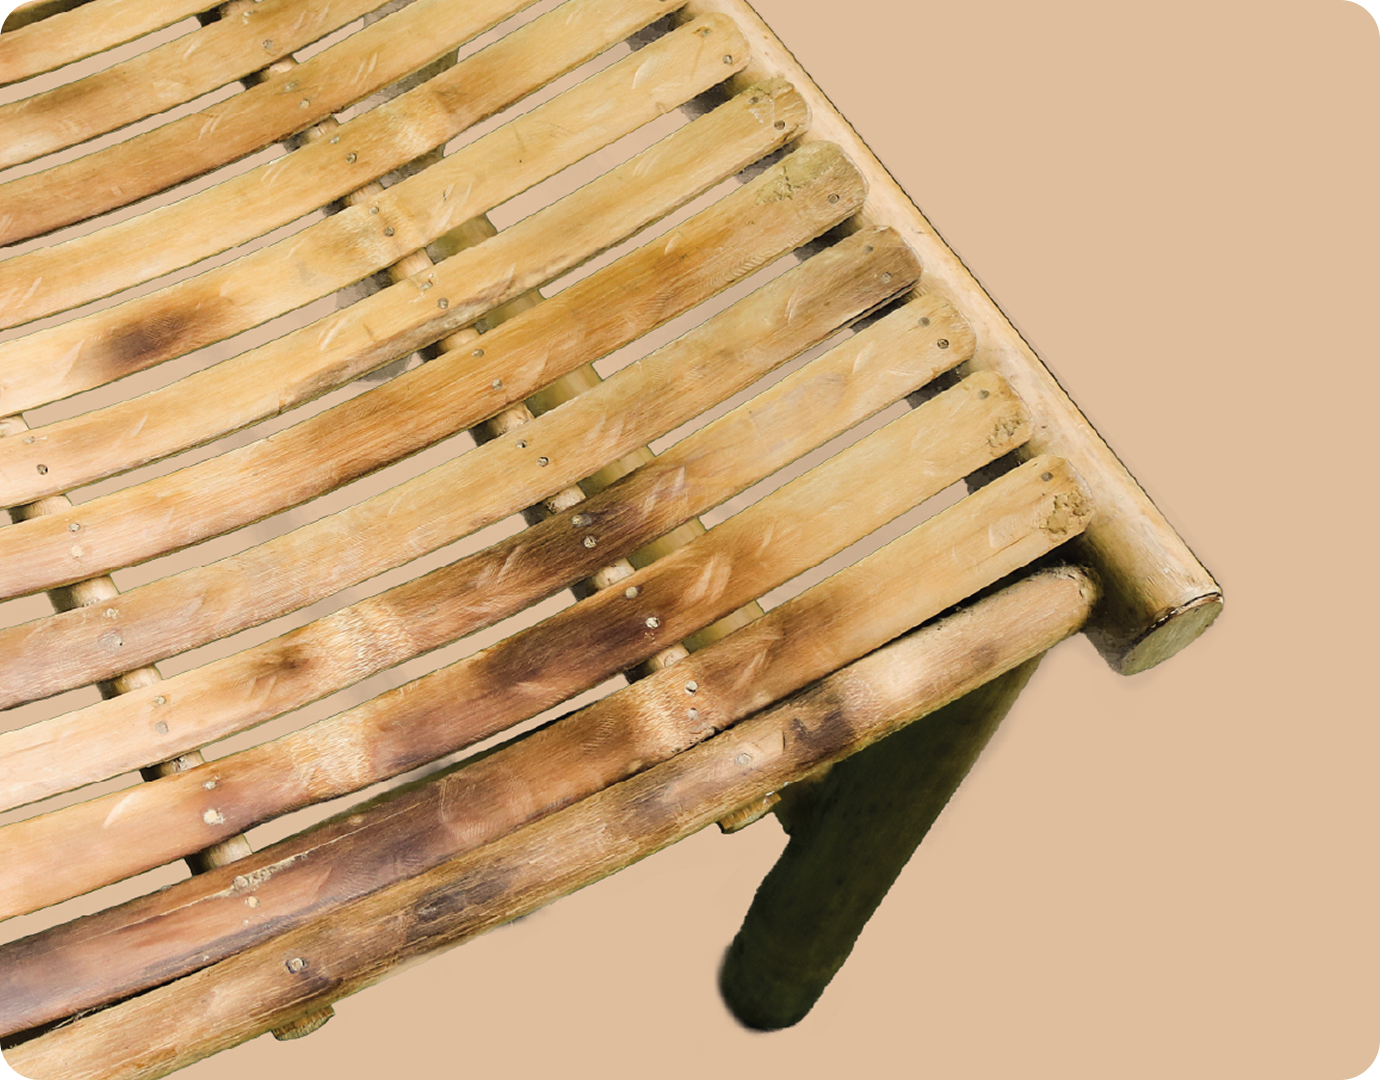
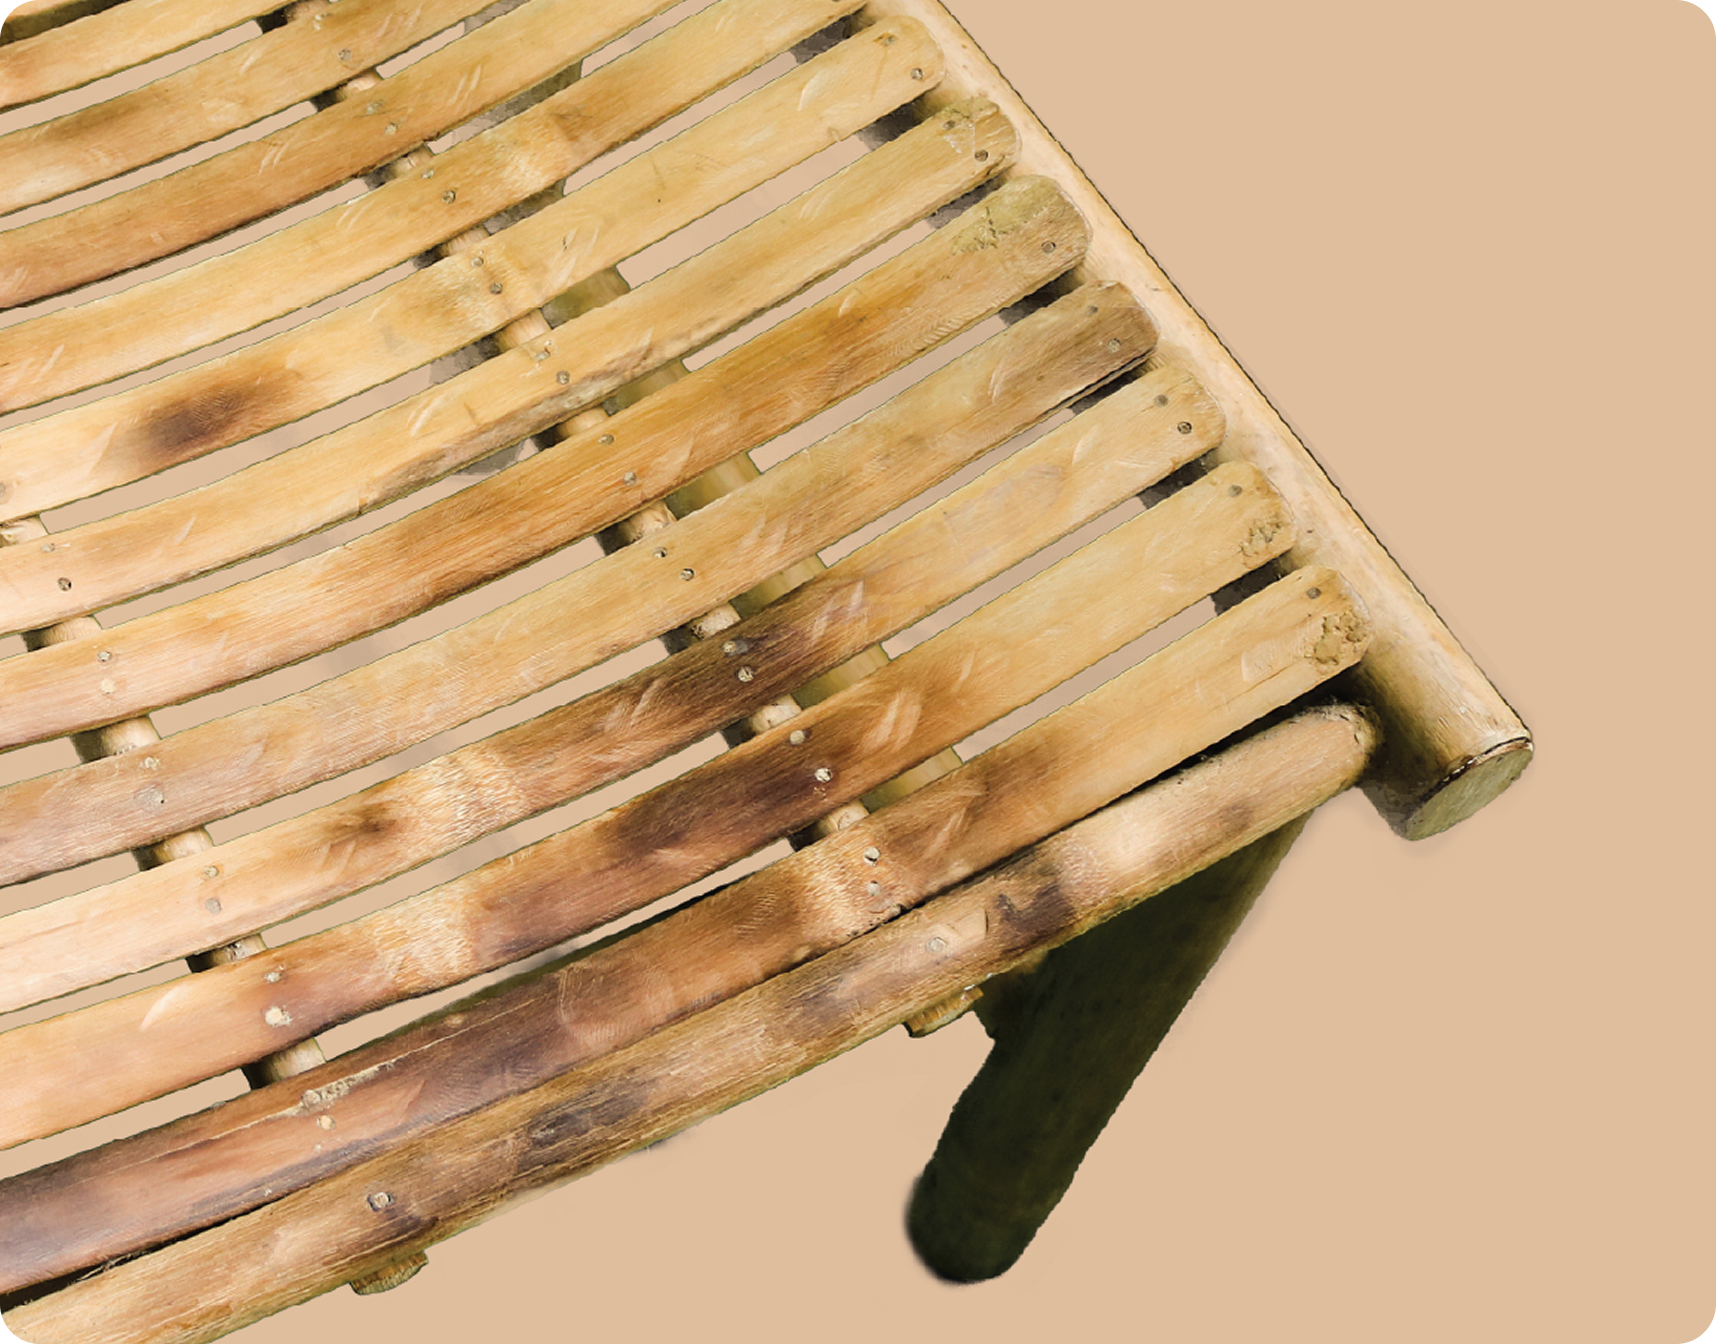
Added all thumbnails

Changed region(s): [[0.0, 0.0, 0.9036, 1.0], [0.9659, 0.9472, 1.0, 1.0], [0.9971, 0.0, 1.0, 0.0306]]

diff --git a/work.html b/work.html
@@ -34,7 +34,7 @@
       <div class="project">
         <div class="thumbnail-box">
           <a href="https://www.behance.net/gallery/198589251/Bamboo-Lantern-Product-Redesign" target="_blank">
-            <img src="your-image.png" alt="Bamboo Lantern" />
+            <img src="Kandil.png" alt="Bamboo Lantern" />
           </a>
         </div>
         <div class="project-text">
@@ -53,7 +53,7 @@
       <div class="project">
         <div class="thumbnail-box">
           <a href="https://www.behance.net/gallery/149584085/Gossip-(UIUX-Design-Product-Design)" target="_blank">
-            <img src="your-image.png" alt="Gossip" />
+            <img src="Gossip.png" alt="Gossip" />
           </a>
         </div>
         <div class="project-text">
@@ -72,7 +72,7 @@
       <div class="project">
         <div class="thumbnail-box">
           <a href="https://www.behance.net/gallery/149756791/DAB-UIUX-Design" target="_blank">
-            <img src="your-image.png" alt="DAB" />
+            <img src="Dab.png" alt="DAB" />
           </a>
         </div>
         <div class="project-text">
@@ -91,7 +91,7 @@
       <div class="project">
         <div class="thumbnail-box">
           <a href="https://www.behance.net/gallery/88529641/Bamboo-Chair" target="_blank">
-            <img src="your-image.png" alt="Bamboo Stool" />
+            <img src="Bamboo-stool.png" alt="Bamboo Stool" />
           </a>
         </div>
         <div class="project-text">
@@ -110,7 +110,7 @@
       <div class="project">
         <div class="thumbnail-box">
           <a href="https://www.behance.net/gallery/88012133/Flour-Packaging-Redesign" target="_blank">
-            <img src="your-image.png" alt="Flour Packaging Redesign" />
+            <img src="Flour-packaging.png" alt="Flour Packaging Redesign" />
           </a>
         </div>
         <div class="project-text">
@@ -129,7 +129,7 @@
       <div class="project">
         <div class="thumbnail-box">
           <a href="https://www.behance.net/gallery/148640793/The-Bell-Maker-A-Mini-Documentary" target="_blank">
-            <img src="your-image.png" alt="The Bell Maker" />
+            <img src="The-bell-metal.png" alt="The Bell Maker" />
           </a>
         </div>
         <div class="project-text">
@@ -148,7 +148,7 @@
       <div class="project">
         <div class="thumbnail-box">
           <a href="https://www.behance.net/gallery/88597017/Block-Carving" target="_blank">
-            <img src="your-image.png" alt="Block Carving" />
+            <img src="Block-carving.png" alt="Block Carving" />
           </a>
         </div>
         <div class="project-text">
@@ -167,7 +167,7 @@
       <div class="project">
         <div class="thumbnail-box">
           <a href="https://www.behance.net/gallery/88760933/Parchinkari-Stone-Inlay" target="_blank">
-            <img src="your-image.png" alt="Stone Inlay" />
+            <img src="Stone-inlay.png" alt="Stone Inlay" />
           </a>
         </div>
         <div class="project-text">
@@ -186,7 +186,7 @@
       <div class="project">
         <div class="thumbnail-box">
           <a href="https://www.behance.net/gallery/88699919/Metal-Enamelling" target="_blank">
-            <img src="your-image.png" alt="Metal Enamelling" />
+            <img src="Metal-enammeling.png" alt="Metal Enamelling" />
           </a>
         </div>
         <div class="project-text">
@@ -205,7 +205,7 @@
       <div class="project">
         <div class="thumbnail-box">
           <a href="https://www.behance.net/gallery/88540989/BURKHA" target="_blank">
-            <img src="your-image.png" alt="BURKHA" />
+            <img src="Burkha.png" alt="BURKHA" />
           </a>
         </div>
         <div class="project-text">

diff --git a/styles.css b/styles.css
@@ -267,13 +267,13 @@ body {
 .project {
   display: flex;
   flex-direction: column;
-  gap: 15px;
+  gap: 1px;
 }
 
 .thumbnail-box {
   width: 429px;
-  height: 335px;
-  background-color: white;
+  height: 336px;
+
   border-radius: 10px;
   box-shadow: 1px 1px 3px rgba(0, 0, 0, 0.25);
   overflow: hidden;
@@ -292,7 +292,7 @@ body {
 .project-title {
   font-family: "Newsreader", serif;
   font-size: 20px;
-  margin-bottom: 5px;
+  margin-bottom: 6px;
   border-bottom: 3px solid black;
   padding-bottom: 4px;
 }
@@ -301,7 +301,7 @@ body {
       color: inherit;
       text-decoration: none;
     }
-    .project-title a:hover {
+  .project-title a:hover {
       text-decoration: underline;
     }
 
